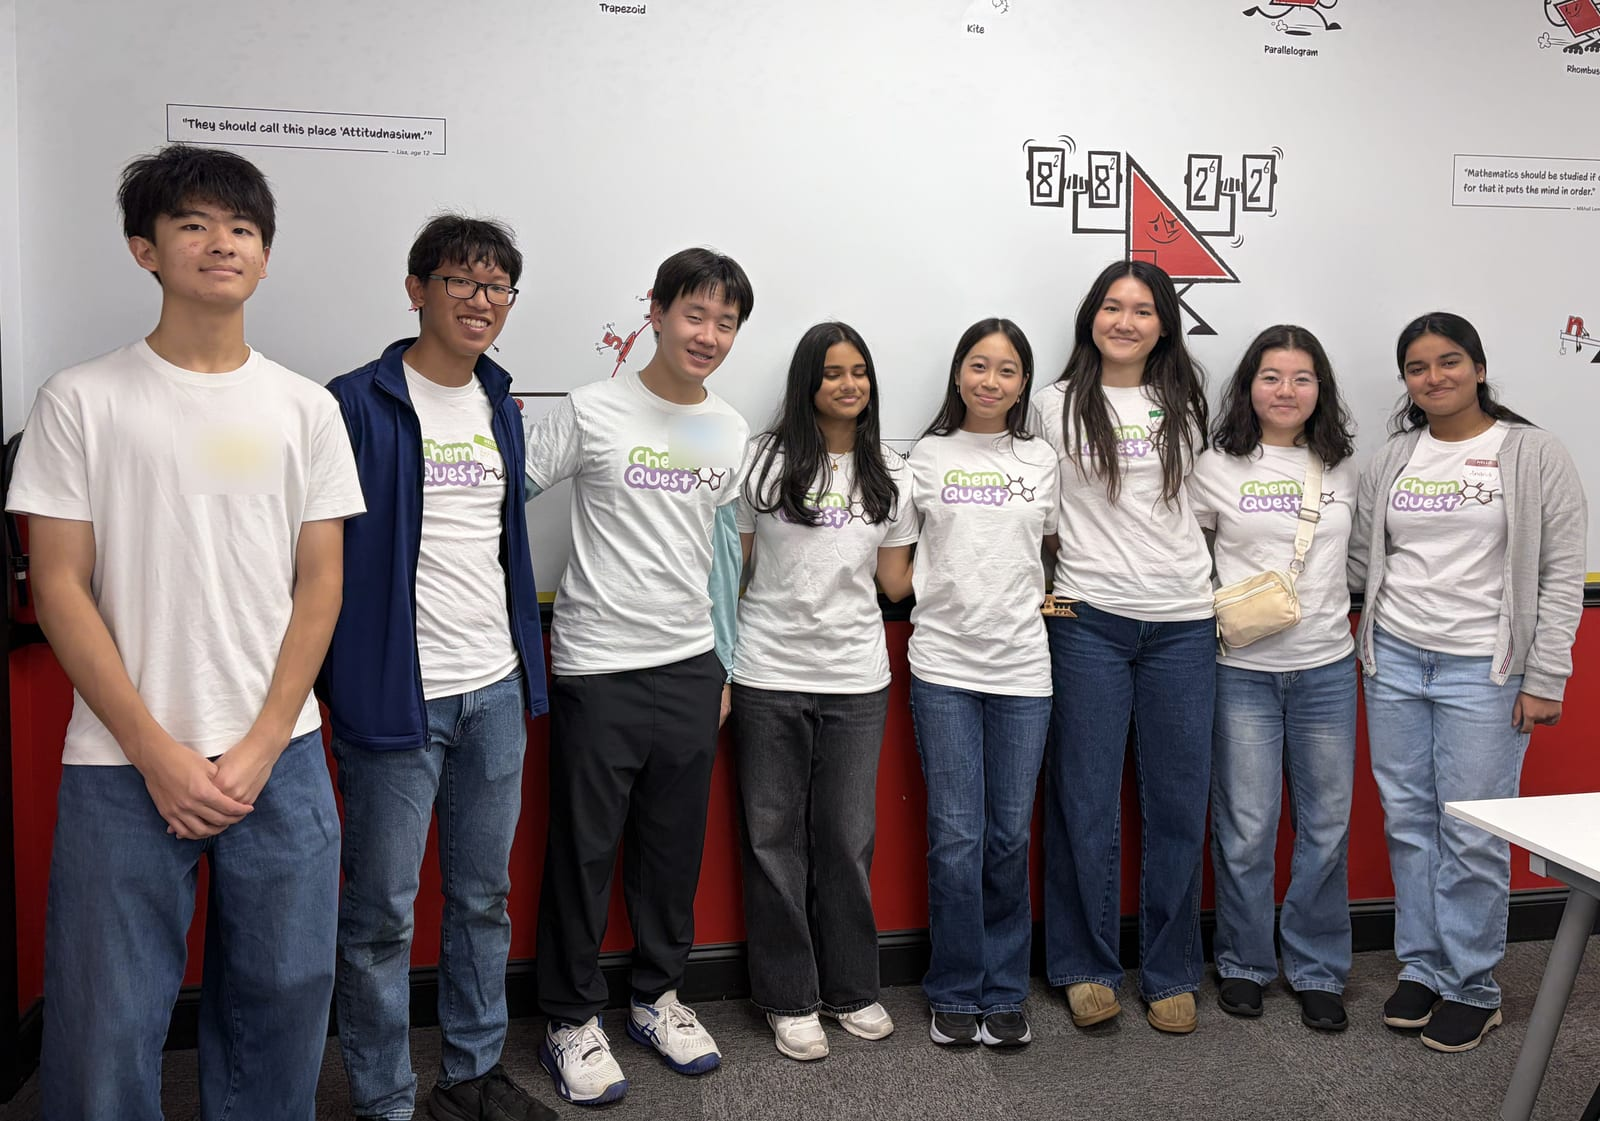
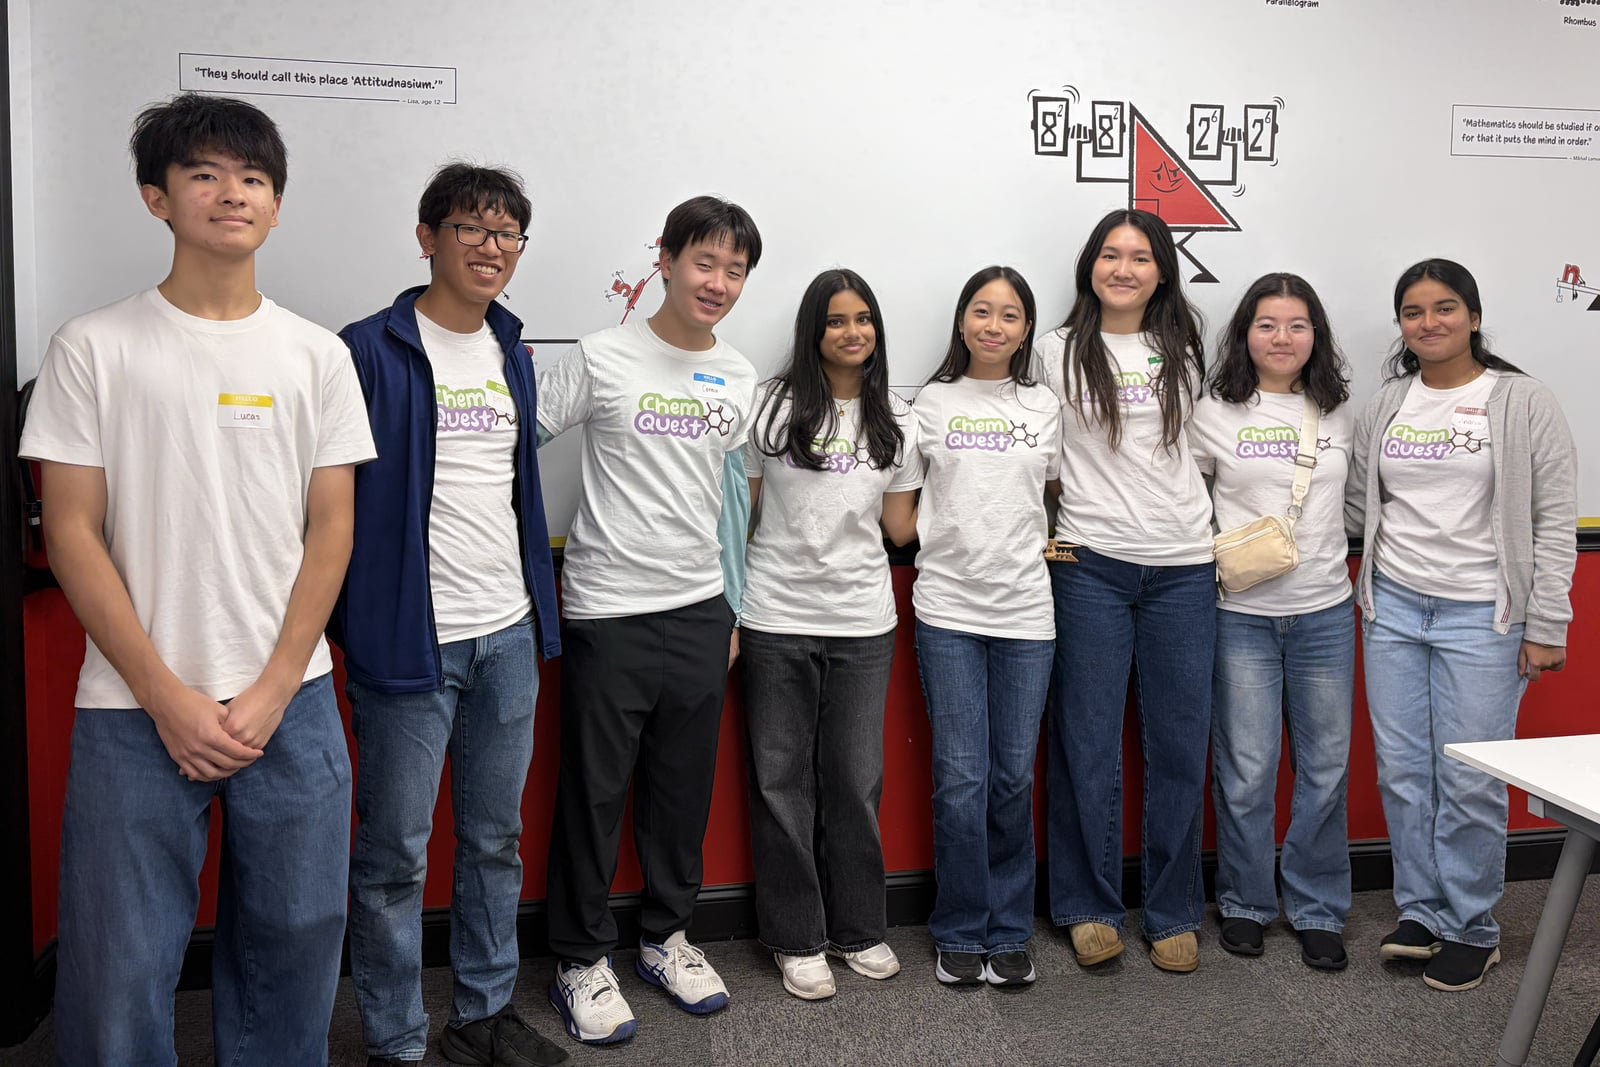
Homepage: a better officer group photo (no one blinking, name tags not blurred)

diff --git a/CHECKLIST.md b/CHECKLIST.md
@@ -95,7 +95,7 @@ Changes to the original site that the presidents should OK (like the new sponsor
 - [x] Phone numbers changed to 267-541-8492 and 484-995-5992 (from a president, round 11).
 - [x] Alumni grouped as "Class of 2024 graduates" (Charlotte, Matthew, and Bethsaida, with her bio) and "Class of 2026 graduates" (round 11).
 
-- [x] STEM Day photos (round 10): from the "Photos" folder in Drive, 34 photos reviewed and 8 used: the event cover, 6 gallery photos, and the volunteer group photo on the homepage. Scaled down to 1,600px, with photo location data removed and two volunteer name tags blurred. The 2 videos aren't used.
+- [x] STEM Day photos (round 10): from the "Photos" folder in Drive, 34 photos reviewed and 8 used: the event cover, 6 gallery photos, and the officer group photo on the homepage. Scaled down to 1,600px, with photo location data removed. (Round 17: the group photo was swapped for one where no one is blinking, with name tags left as they are.) The 2 videos aren't used.
 - [x] Phone menu sub-pages are a list in a white panel (round 10).
 
 - [x] Phone layout (round 9): smaller text everywhere, small-print footer, a new phone menu (no element tiles), experiment tiles in one swipeable row, and two-across officer badges and gallery photos.
